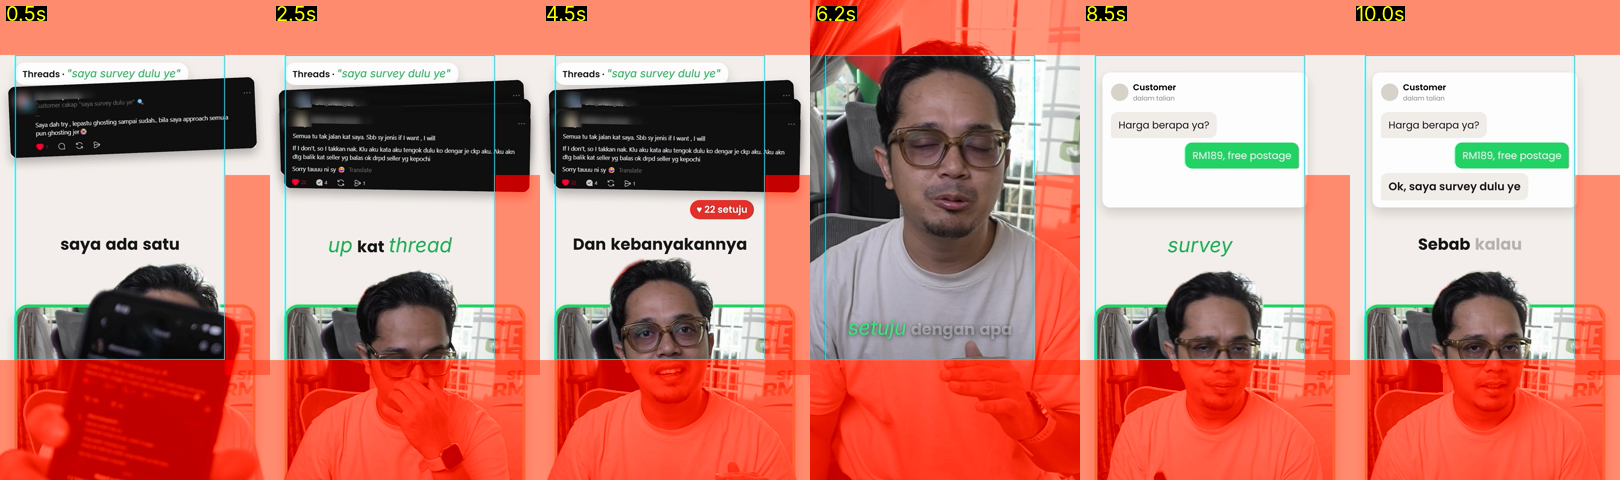
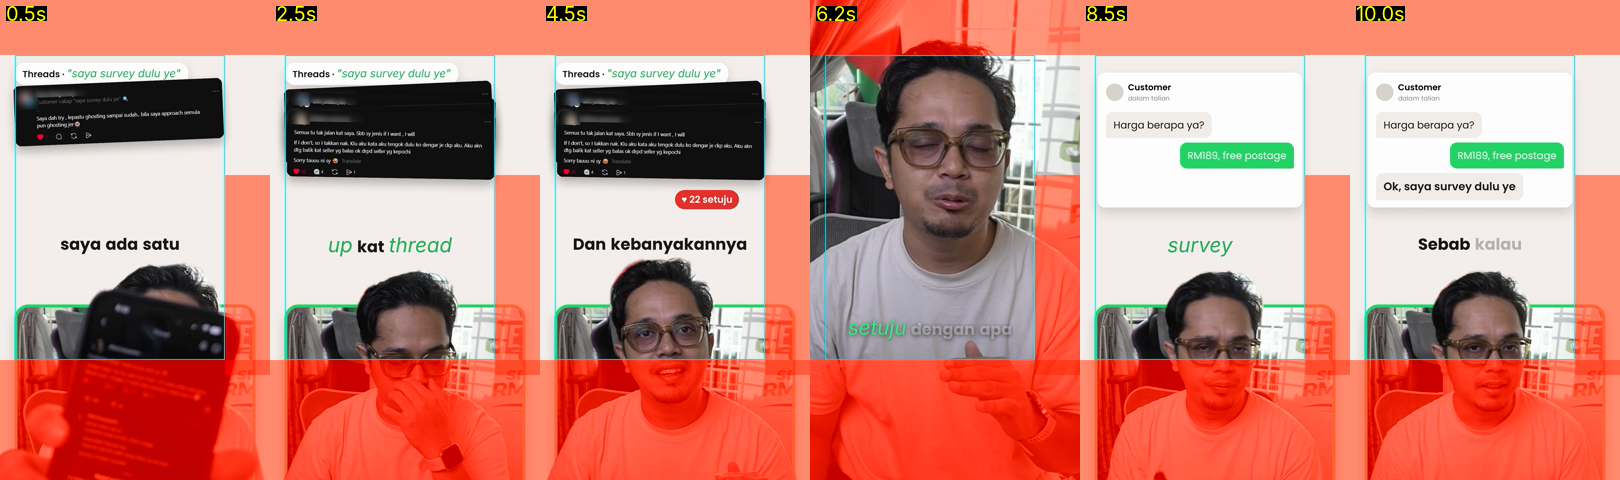
C0225: sampel 10s — kad dalam safe zone
Claude-Session: https://claude.ai/code/session_01TPky1vvENvShERYg6AtXLQ

diff --git a/motion/splitkad/scene.js b/motion/splitkad/scene.js
@@ -13,11 +13,11 @@ window.SPLIT = {
     a.pop(0.05, 5.38, lbl, { dy: -30 });
     const cards = [["r01", 340, -2.5], ["r11", 380, 2], ["r04", 420, -1.5], ["r13", 450, 1]];
     cards.forEach(([f, y, rot], i) => {
-      const c = put(`<img src="assets/kad/${f}.png" style="position:absolute;left:${40 + (i % 2) * 20}px;top:${y}px;width:980px;border-radius:18px;box-shadow:0 20px 40px rgba(0,0,0,.28)">`, "#back");
+      const c = put(`<img src="assets/kad/${f}.png" style="position:absolute;left:${60 + (i % 2) * 10}px;top:${y}px;width:830px;border-radius:18px;box-shadow:0 20px 40px rgba(0,0,0,.28)">`, "#back");
       a.pop(0.25 + i * 0.62, 5.38, c, { dy: 220, rot, sc: 0.9 });
     });
     // denyut like "22" pada kad teratas
-    const heart = put(`<div class="pill" style="left:600px;top:800px;background:#e5322d;font-size:38px;padding:10px 26px">&#9829; <span id="lk">0</span> setuju</div>`, "#back");
+    const heart = put(`<div class="pill" style="left:540px;top:760px;background:#e5322d;font-size:38px;padding:10px 26px">&#9829; <span id="lk">0</span> setuju</div>`, "#back");
     a.pop(2.6, 5.38, heart, { dy: 30 });
     a.counter(heart.querySelector("#lk"), [[2.6, 0], [3.4, 22]]);
     tl.to(heart, { scale: 1.08, duration: 0.18, yoyo: true, repeat: 3, ease: "sine.inOut" }, 3.4);
@@ -25,7 +25,7 @@ window.SPLIT = {
     a.full(5.38, { z: 1.85, fy: 700, cut: "s" });
     // ---- 7.5–10.4 MOD A: kad chat "saya survey dulu ye" ----
     a.frame(7.5, FR, { s: 1.3, out: 60, cut: "s" });
-    const chat = put(`<div class="card" style="left:90px;top:290px;width:820px;height:540px;padding:34px">
+    const chat = put(`<div class="card" style="left:70px;top:290px;width:820px;height:540px;padding:34px">
       <div style="display:flex;align-items:center;gap:18px"><div style="width:70px;height:70px;border-radius:50%;background:#d9d4cc"></div>
         <div><div style="font-weight:600;font-size:34px">Customer</div><div style="font-size:26px;color:#8a8a8a">dalam talian</div></div></div>
       <div id="b1" style="margin-top:34px;display:inline-block;background:#F1EEE9;border-radius:28px 28px 28px 8px;padding:22px 30px;font-size:40px;color:#1A1A1A">Harga berapa ya?</div>

diff --git a/projects/C0225/scene_split.js b/projects/C0225/scene_split.js
@@ -13,11 +13,11 @@ window.SPLIT = {
     a.pop(0.05, 5.38, lbl, { dy: -30 });
     const cards = [["r01", 340, -2.5], ["r11", 380, 2], ["r04", 420, -1.5], ["r13", 450, 1]];
     cards.forEach(([f, y, rot], i) => {
-      const c = put(`<img src="assets/kad/${f}.png" style="position:absolute;left:${40 + (i % 2) * 20}px;top:${y}px;width:980px;border-radius:18px;box-shadow:0 20px 40px rgba(0,0,0,.28)">`, "#back");
+      const c = put(`<img src="assets/kad/${f}.png" style="position:absolute;left:${60 + (i % 2) * 10}px;top:${y}px;width:830px;border-radius:18px;box-shadow:0 20px 40px rgba(0,0,0,.28)">`, "#back");
       a.pop(0.25 + i * 0.62, 5.38, c, { dy: 220, rot, sc: 0.9 });
     });
     // denyut like "22" pada kad teratas
-    const heart = put(`<div class="pill" style="left:600px;top:800px;background:#e5322d;font-size:38px;padding:10px 26px">&#9829; <span id="lk">0</span> setuju</div>`, "#back");
+    const heart = put(`<div class="pill" style="left:540px;top:760px;background:#e5322d;font-size:38px;padding:10px 26px">&#9829; <span id="lk">0</span> setuju</div>`, "#back");
     a.pop(2.6, 5.38, heart, { dy: 30 });
     a.counter(heart.querySelector("#lk"), [[2.6, 0], [3.4, 22]]);
     tl.to(heart, { scale: 1.08, duration: 0.18, yoyo: true, repeat: 3, ease: "sine.inOut" }, 3.4);
@@ -25,7 +25,7 @@ window.SPLIT = {
     a.full(5.38, { z: 1.85, fy: 700, cut: "s" });
     // ---- 7.5–10.4 MOD A: kad chat "saya survey dulu ye" ----
     a.frame(7.5, FR, { s: 1.3, out: 60, cut: "s" });
-    const chat = put(`<div class="card" style="left:90px;top:290px;width:820px;height:540px;padding:34px">
+    const chat = put(`<div class="card" style="left:70px;top:290px;width:820px;height:540px;padding:34px">
       <div style="display:flex;align-items:center;gap:18px"><div style="width:70px;height:70px;border-radius:50%;background:#d9d4cc"></div>
         <div><div style="font-weight:600;font-size:34px">Customer</div><div style="font-size:26px;color:#8a8a8a">dalam talian</div></div></div>
       <div id="b1" style="margin-top:34px;display:inline-block;background:#F1EEE9;border-radius:28px 28px 28px 8px;padding:22px 30px;font-size:40px;color:#1A1A1A">Harga berapa ya?</div>
